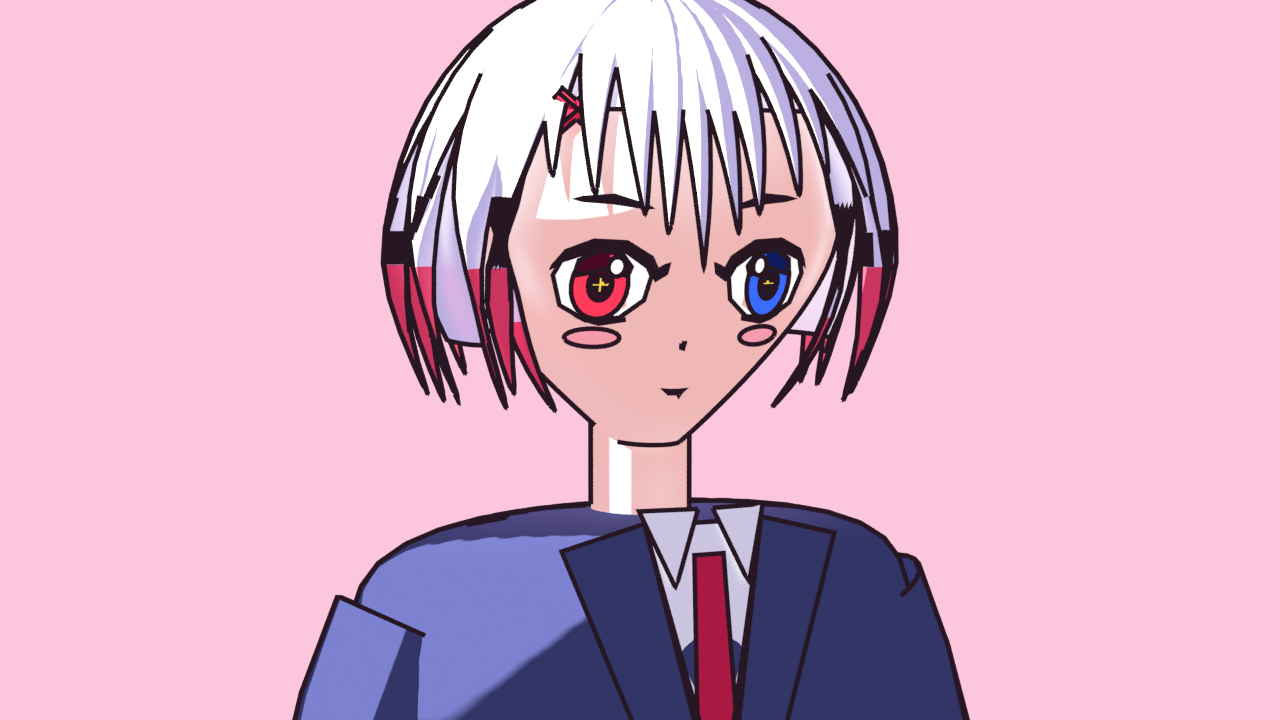
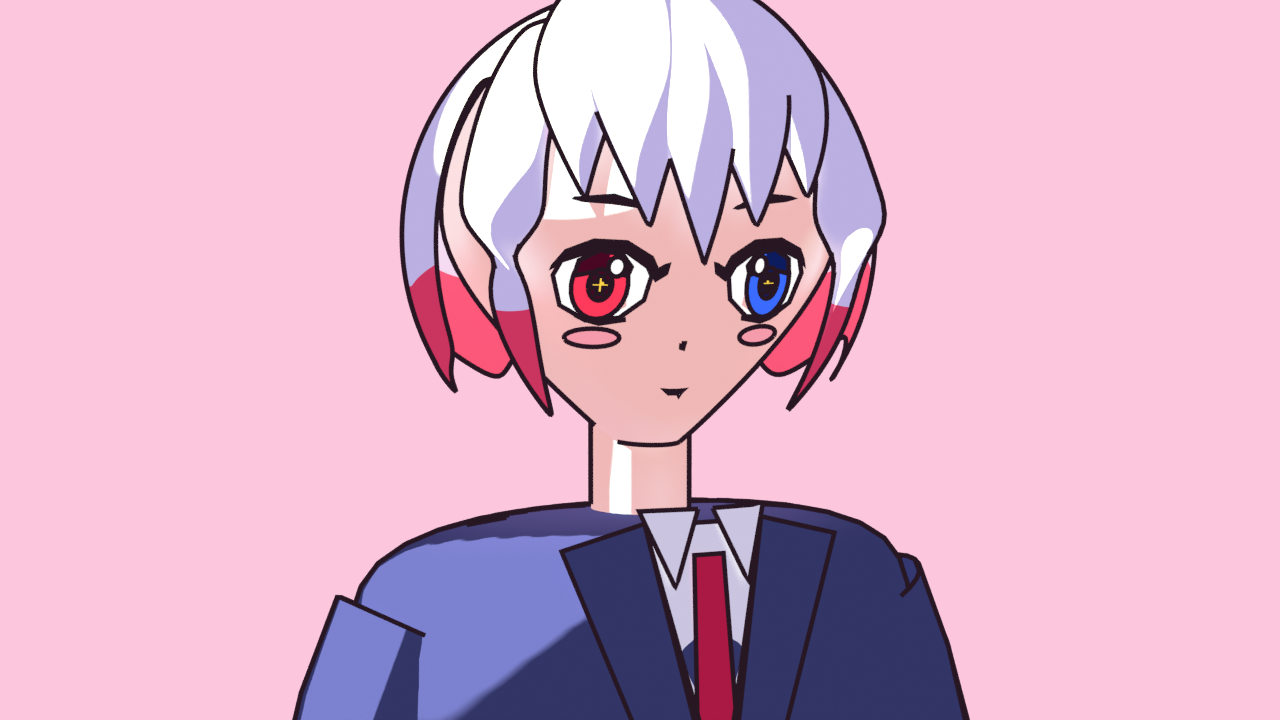
Rei 3D: hair as large clumped locks instead of thin strands; fewer inner outline lines
Claude-Session: https://claude.ai/code/session_01EaTkea6rFw8UoGGesaDmjX

Changed region(s): [[0.2812, 0.0, 0.7188, 0.5806]]

diff --git a/rei3d/rei3d.py b/rei3d/rei3d.py
@@ -231,75 +231,60 @@ def build_head(eyes="open", mouth="smile"):
     decal("nose", [(-0.6, 0), (0.8, 0), (0.5, -2.5), (-0.4, -2.2)], M["mouth"], 0.0, -0.056, 0.0010, HEAD, scale=1.0)
 
 
-def hair_strand(name, az, p0, p1, w, ext=0.0, curl=0.0, r0=None, lift=0.006, tip_frac=0.0, n=9):
-    """Прядь по поверхности головы: азимут az (−90° — перёд), полярный угол от p0 до p1 (градусы)."""
+def lock(name, az, p0, p1, w, ext=0.0, curl=0.0, lift=0.008, tip_frac=0.0, n=12, blunt=0.6, thick=0.38):
+    """Крупный локон: широкий у корня, почти не сужается до 60% длины, острый только на кончике."""
     pts, rad = [], []
     for k in range(n):
         t = k / (n - 1)
         ph = math.radians(p0 + (p1 - p0) * t)
         a = math.radians(az + curl * t * t)
-        r = (r0 or HR) + lift + ext * t ** 2
-        x, y, z = r * math.sin(ph) * math.cos(a) * 0.95, r * math.sin(ph) * math.sin(a), r * math.cos(ph)
-        pts.append((x, y, z))
-        rad.append(w * (1 - t ** 1.7) + 0.0006)
-    V, F = tube(pts, rad, n=8, flatten=0.32)
-    nfaces = len(F)
-    seg = 8
-    fm = []
-    for i in range(nfaces):
-        if i < (n - 1) * seg:
-            fm.append(1 if (i // seg) >= (n - 1) * (1 - tip_frac) else 0)
-        else:
-            fm.append(1 if i == nfaces - 1 and tip_frac > 0 else 0)
-    return obj(name, V, F, mats=[M["hair"], M["tip"]], face_mat=fm, parent=HEAD, subsurf=1)
+        r = HR + lift + ext * t ** 2
+        pts.append((r * math.sin(ph) * math.cos(a) * 0.96, r * math.sin(ph) * math.sin(a), r * math.cos(ph)))
+        rad.append(w * (1 - max(0.0, (t - blunt) / (1 - blunt)) ** 1.25) + 0.0005)
+    V, F = tube(pts, rad, n=10, flatten=thick)
+    seg = 10
+    fm = [1 if (i < (n - 1) * seg and (i // seg) >= (n - 1) * (1 - tip_frac)) or (i >= (n - 1) * seg and tip_frac > 0 and i == len(F) - 1) else 0
+          for i in range(len(F))]
+    return obj(name, V, F, mats=[M["hair"], M["tip"]], face_mat=fm, parent=HEAD, subsurf=2)
 
 
 def build_hair():
-    # объём каре: шапка волос
+    # объём каре: шапка до линии челюсти, нижний край — несколько крупных зубцов
     V, F = [], []
-    nu, nv = 36, 16
+    nu, nv = 48, 18
     for j in range(nv + 1):
-        ph = math.radians(4 + 116 * j / nv)
         for i in range(nu):
             th = 2 * math.pi * i / nu
-            front = max(0.0, -math.sin(th))            # спереди шапка короче — открывает лицо
-            ph_eff = ph
-            r = HR * 1.07
-            x, y, z = r * math.sin(ph_eff) * math.cos(th) * 0.97, r * math.sin(ph_eff) * math.sin(th), r * math.cos(ph_eff)
+            tri = 1 - abs(((i / nu) * 7) % 1 * 2 - 1)            # 7 крупных зубцов по кругу
+            ph = math.radians(4 + (112 + 16 * tri * (j / nv) ** 3) * j / nv)
+            r = HR * (1.08 + 0.10 * (j / nv) ** 2)               # каре расширяется книзу
+            x, y, z = r * math.sin(ph) * math.cos(th) * 0.97, r * math.sin(ph) * math.sin(th), r * math.cos(ph)
             V.append((x, y + 0.004, z))
-    keep = []
+    fm = []
     for j in range(nv):
         for i in range(nu):
             th = 2 * math.pi * (i + 0.5) / nu
             ph = 4 + 116 * (j + 0.5) / nv
-            front = -math.sin(th)
-            if front > 0.45 and ph > 62:               # вырез под лицо
+            if -math.sin(th) > 0.42 and ph > 58:                 # вырез под лицо
                 continue
             a, b = j * nu + i, j * nu + (i + 1) % nu
             F.append((a, b, b + nu, a + nu))
-    obj("haircap", V, F, M["hair"], parent=HEAD, subsurf=1)
-    # чёлка
-    for k, (az, p1, w, curl) in enumerate([(-130, 80, 0.014, 6), (-118, 84, 0.015, 4), (-106, 88, 0.016, 3),
-                                           (-96, 92, 0.014, -2), (-90, 100, 0.012, 0), (-84, 92, 0.014, 2),
-                                           (-74, 88, 0.016, -3), (-62, 84, 0.015, -4), (-50, 80, 0.014, -6)]):
-        hair_strand(f"bang{k}", az, 8, p1, w, ext=0.008, curl=curl, lift=0.010)
-    # боковые и задние пряди каре с красными кончиками и разлётом
-    for k, az in enumerate(list(range(-160, 30, 13)) + list(range(30, 200, 15))):
-        if -55 > az > -125:
-            continue
-        flare = 0.022 if abs(math.sin(math.radians(az))) < 0.7 else 0.012
-        hair_strand(f"bob{k}", az, 10, 128, 0.022, ext=flare, curl=(7 if az % 2 else -7), lift=0.012, tip_frac=0.3)
-    # пряди, обрамляющие лицо
+            fm.append(1 if j >= nv - 3 else 0)                   # красные кончики снизу
+    obj("haircap", V, F, mats=[M["hair"], M["tip"]], face_mat=fm, parent=HEAD, subsurf=2)
+    # чёлка: 5 крупных локонов вместо девяти иголок
+    for k, (az, p1, w, curl) in enumerate([(-124, 84, 0.024, 8), (-106, 90, 0.026, 4), (-90, 98, 0.022, 0),
+                                           (-74, 90, 0.026, -4), (-56, 84, 0.024, -8)]):
+        lock(f"bang{k}", az, 6, p1, w, ext=0.006, curl=curl, lift=0.012)
+    # обрамляющие лицо пряди — по одной широкой с каждой стороны
     for s in (-1, 1):
-        hair_strand(f"lock{s}", -90 + s * 52, 30, 140, 0.016, ext=0.004, curl=-s * 4, lift=0.006, tip_frac=0.3)
+        lock(f"side{s}", -90 + s * 50, 34, 136, 0.022, ext=0.010, curl=-s * 6, lift=0.008, tip_frac=0.28, blunt=0.55)
     # ахоге
     pts = [(0.0, -0.02, HR + 0.006), (0.004, -0.01, HR + 0.03), (0.014, 0.0, HR + 0.05), (0.03, 0.004, HR + 0.055),
            (0.04, 0.0, HR + 0.045)]
-    v, f = tube(pts, [0.006, 0.005, 0.004, 0.0025, 0.0006], n=8, flatten=0.4)
-    obj("ahoge", v, f, M["hair"], parent=HEAD, subsurf=1)
-    # заколка-крестик
+    v, f = tube(pts, [0.007, 0.006, 0.005, 0.003, 0.0006], n=8, flatten=0.45)
+    obj("ahoge", v, f, M["hair"], parent=HEAD, subsurf=2)
     for k, a in enumerate((0.7, -0.7)):
-        c = Vector((-0.052, -0.088, 0.055))
+        c = Vector((-0.054, -0.094, 0.050))
         d = Vector((math.cos(a), 0, math.sin(a))) * 0.012
         v, f = tube([c - d, c + d], [0.0035, 0.0035], n=8)
         obj(f"clip{k}", v, f, M["clip"], parent=HEAD)
@@ -375,7 +360,7 @@ def setup_render(w=1280, h=720, samples=24):
     ls.select_by_edge_types = True
     ls.select_silhouette = True
     ls.select_border = True
-    ls.select_crease = True
+    ls.select_crease = False
     ls.select_external_contour = True
     ls.linestyle.color = hexc("#2b1d27")[:3]
     ls.linestyle.thickness = 2.2
